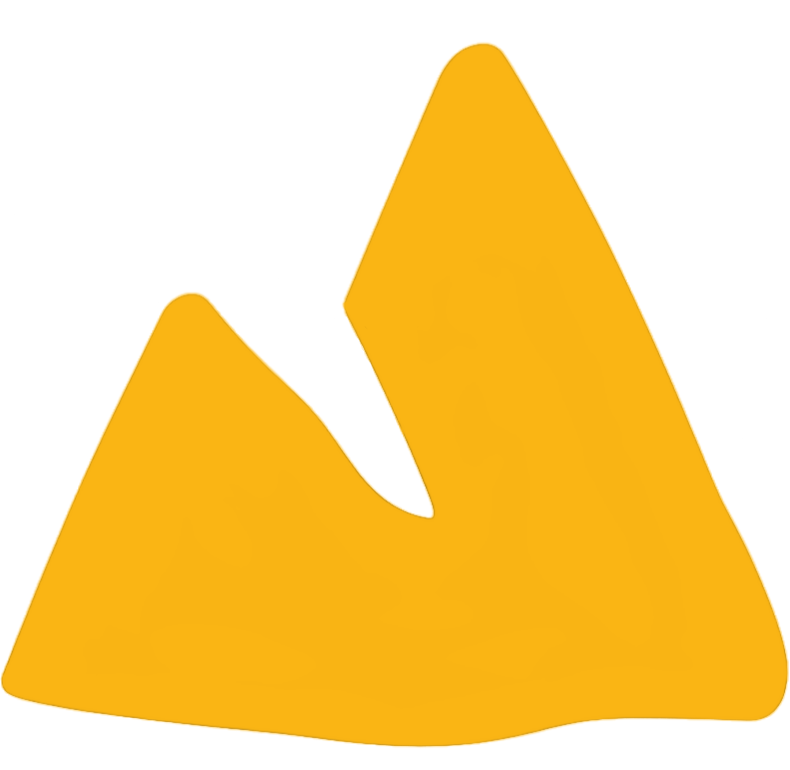
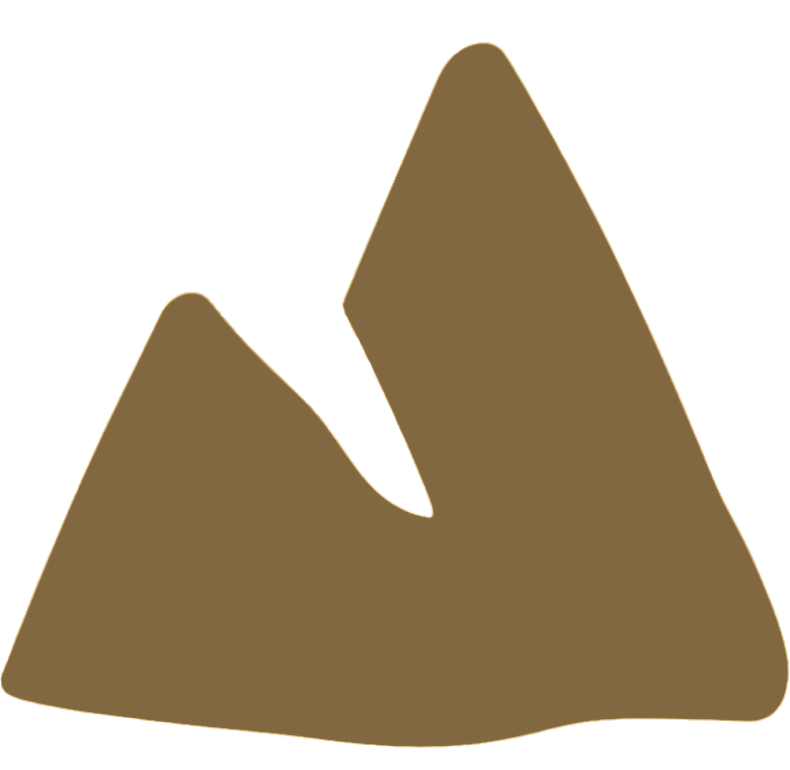
fix couleur orange et retour a la ligne

diff --git a/js/update_preview.js b/js/update_preview.js
@@ -19,19 +19,9 @@ const emojis = {
     "{h}": "images/hand",
     "{t}": "images/tap",
     "{i}": "images/infini",
-    "{oo}": "images/ocean_o",
-    "{eo}": "images/earth_o",
-    "{lo}": "images/leaf_o",
-    "{do}": "images/discard_o",
-    "{fo}": "images/arrow_o",
-    "{ro}": "images/reserve2_o",
-    "{ho}": "images/hand_o",
-    "{to}": "images/tap_o",
-    "{io}": "images/infini_o",
-    "\\n": "<br/>",
     "[": "<b>",
     "]": "</b>",
-    "#": '<span style="color: orange;" id="orange-text">',
+    "#": '<span style="color: #826841;" id="orange-text">',
     "*": "</span>"
 };
 
@@ -348,7 +338,7 @@ function updateName(text) {
 */
 function updateEffect(text) {
     const zone = document.getElementById("preview-effect");
-    text_emoji = convertWithEmojis(text, false);
+    text_emoji = convertWithEmojis(text, false).replace(/\n/g, "<br>");
     zone.innerHTML = text_emoji;
     if(document.getElementById("card-type").value !== "hero" && document.getElementById("card-type").value !== "token") {
         const lore_zone = document.getElementById("preview-lore");
@@ -411,9 +401,9 @@ function updateLore(text) {
             zone.innerHTML = "";
         else {
             if(current_rarity !== "unique")
-                zone.innerHTML = '<span style="display:inline-block; width:230px; border-bottom:1px solid black ;"></span><br/>' + text;
+                zone.innerHTML = ('<span style="display:inline-block; width:230px; border-bottom:1px solid black ;"></span><br/>' + text).replace(/\n/g, "<br>");
             else
-                 zone.innerHTML = '<span style="display:inline-block; width:230px; border-bottom:1px solid white ;"></span><br/>' + text;
+                 zone.innerHTML = ('<span style="display:inline-block; width:230px; border-bottom:1px solid white ;"></span><br/>' + text).replace(/\n/g, "<br>");
         }  
     }
     if(document.getElementById("card-type").value !== "hero" && document.getElementById("card-type").value !== "token") {
@@ -523,7 +513,7 @@ function updateBonus(text, img) {
     const zone = document.getElementById("preview-bonus");
     text_emoji = convertWithEmojis(text, true);
     if(zone)
-        zone.innerHTML = text_emoji;
+        zone.innerHTML = text_emoji.replace(/\n/g, "<br>");
     updateEffect(document.getElementById("card-effect").value);
 }
 
